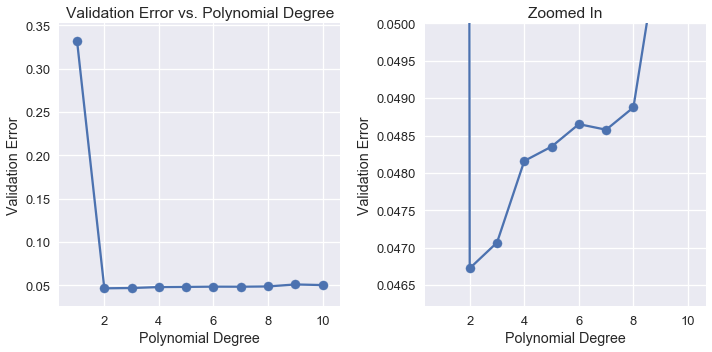
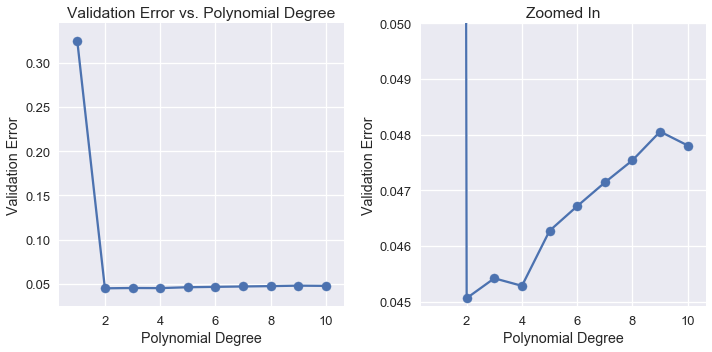
more fixes

diff --git a/notebooks-html/bias_cv.html b/notebooks-html/bias_cv.html
@@ -105,7 +105,7 @@
 <p><img src="https://raw.githubusercontent.com/DS-100/textbook/master/assets/feature_train_test_error.png" alt="feature_train_test_error.png"></p></div></div></div>
 <div class="cell border-box-sizing text_cell rendered"><div class="inner_cell">
 <div class="text_cell_render border-box-sizing rendered_html">
-<h2 id="K-Fold-Cross-Validation">K-Fold Cross-Validation<a class="anchor-link" href="#K-Fold-Cross-Validation">&#182;</a></h2><p>In Chapter 14.3, we mentioned the method of the <strong>train-validation split</strong> method to simulate test error through the validation set. However, with this method the validation error may be prone to high variance because the evaluation of the error may depend heavily on which points end up in the training and validation sets.</p>
+<h2 id="K-Fold-Cross-Validation">K-Fold Cross-Validation<a class="anchor-link" href="#K-Fold-Cross-Validation">&#182;</a></h2><p>The <strong>train-validation split</strong> method is a good method to simulate test error through the validation set. However, with this method the validation error may be prone to high variance because the evaluation of the error may depend heavily on which points end up in the training and validation sets.</p>
 <p>To tackle this problem, we can run the train-validation split multiple times on the same dataset. The dataset is divided into <em>k</em> equally-sized subsets (<em>$k$ folds</em>), and the train-validation split is repeated <em>k</em> times. Each time, one of the <em>k</em> folds is used as the validation set, and the remaining <em>k-1</em> folds are used as the training set. We report the model's final validation error as the average of the $ k $ validation errors from each trial. This method is called <strong>k-fold cross-validation</strong>. The biggest advantage of this method is that every data point is used for validation exactly once and for training <em>k-1</em> times.</p>
 <p>The diagram below illustrates the technique when using five folds:</p>
 <p><img src="https://github.com/DS-100/textbook/blob/master/assets/feature_5_fold_cv.jpg?raw=true" alt="feature_5_fold_cv.jpg"></p></div></div></div>
@@ -135,10 +135,6 @@
 <span class="n">clf</span> <span class="o">=</span> <span class="n">LinearRegression</span><span class="p">(</span><span class="n">fit_intercept</span><span class="o">=</span><span class="kc">False</span><span class="p">)</span><span class="o">.</span><span class="n">fit</span><span class="p">(</span><span class="n">X</span><span class="p">,</span> <span class="n">ice</span><span class="p">[[</span><span class="s1">&#39;overall&#39;</span><span class="p">]])</span>
 <span class="n">xs</span> <span class="o">=</span> <span class="n">np</span><span class="o">.</span><span class="n">linspace</span><span class="p">(</span><span class="mf">3.5</span><span class="p">,</span> <span class="mf">12.5</span><span class="p">,</span> <span class="mi">300</span><span class="p">)</span><span class="o">.</span><span class="n">reshape</span><span class="p">(</span><span class="o">-</span><span class="mi">1</span><span class="p">,</span> <span class="mi">1</span><span class="p">)</span>
 <span class="n">rating_pred</span> <span class="o">=</span> <span class="n">clf</span><span class="o">.</span><span class="n">predict</span><span class="p">(</span><span class="n">transformer</span><span class="o">.</span><span class="n">transform</span><span class="p">(</span><span class="n">xs</span><span class="p">))</span>
-
-<span class="c1">#ice.plot.scatter(&#39;sweetness&#39;, &#39;overall&#39;)</span>
-<span class="c1">#plt.plot(xs, rating_pred)</span>
-<span class="c1">#plt.title(&#39;Degree 2 polynomial fit&#39;);</span>
 
 <span class="n">temp</span> <span class="o">=</span> <span class="n">pd</span><span class="o">.</span><span class="n">DataFrame</span><span class="p">(</span><span class="n">xs</span><span class="p">,</span> <span class="n">columns</span> <span class="o">=</span> <span class="p">[</span><span class="s1">&#39;sweetness&#39;</span><span class="p">])</span>
 <span class="n">temp</span><span class="p">[</span><span class="s1">&#39;overall&#39;</span><span class="p">]</span> <span class="o">=</span> <span class="n">rating_pred</span>
@@ -261,7 +257,7 @@
 ></div></div></div></div></div>
 <div class="cell border-box-sizing text_cell rendered"><div class="inner_cell">
 <div class="text_cell_render border-box-sizing rendered_html">
-<p>Using degree 10 polynomial features on the dataset below results in a perfectly accurate model for the 10 datapoints. Unfortunately, this model fails to generalize to previously-unseen data from the population.</p></div></div></div>
+<p>Using degree 10 polynomial features on 9 random points from the dataset result in a perfectly accurate model for those data points. Unfortunately, this model fails to generalize to previously unseen data from the population.</p></div></div></div>
 <div class="cell border-box-sizing code_cell rendered">
 <div class="input">
 
@@ -340,7 +336,7 @@
 <span class="n">test_size</span> <span class="o">=</span> <span class="mi">92</span>
 
 <span class="n">X_train</span><span class="p">,</span> <span class="n">X_test</span><span class="p">,</span> <span class="n">y_train</span><span class="p">,</span> <span class="n">y_test</span> <span class="o">=</span> <span class="n">train_test_split</span><span class="p">(</span>
-    <span class="n">ice</span><span class="p">[[</span><span class="s1">&#39;sweetness&#39;</span><span class="p">]],</span> <span class="n">ice</span><span class="p">[</span><span class="s1">&#39;overall&#39;</span><span class="p">],</span> <span class="n">test_size</span><span class="o">=</span><span class="n">test_size</span><span class="p">)</span>
+    <span class="n">ice</span><span class="p">[[</span><span class="s1">&#39;sweetness&#39;</span><span class="p">]],</span> <span class="n">ice</span><span class="p">[</span><span class="s1">&#39;overall&#39;</span><span class="p">],</span> <span class="n">test_size</span><span class="o">=</span><span class="n">test_size</span><span class="p">,</span> <span class="n">random_state</span><span class="o">=</span><span class="mi">0</span><span class="p">)</span>
 
 
 <span class="nb">print</span><span class="p">(</span><span class="n">f</span><span class="s1">&#39;  Training set size: {len(X_train)}&#39;</span><span class="p">)</span>
@@ -393,13 +389,13 @@
 
 
 <div class="output_text output_subarea output_execute_result">
-<pre>array([[     1.  ,     11.46,    131.33,   1505.06,  17247.99, 197661.96],
-       [     1.  ,      8.  ,     64.  ,    512.  ,   4096.  ,  32768.  ],
-       [     1.  ,      4.71,     22.18,    104.49,    492.13,   2317.95],
+<pre>array([[     1.  ,      8.8 ,     77.44,    681.47,   5996.95,  52773.19],
+       [     1.  ,     10.74,    115.35,   1238.83,  13305.07, 142896.44],
+       [     1.  ,      9.98,     99.6 ,    994.01,   9920.24,  99003.99],
        ...,
-       [     1.  ,      6.88,     47.33,    325.66,   2240.55,  15414.95],
-       [     1.  ,      4.63,     21.44,     99.25,    459.54,   2127.67],
-       [     1.  ,      6.74,     45.43,    306.18,   2063.67,  13909.11]])</pre></div></div></div></div></div>
+       [     1.  ,      6.79,     46.1 ,    313.05,   2125.59,  14432.74],
+       [     1.  ,      5.13,     26.32,    135.01,    692.58,   3552.93],
+       [     1.  ,      8.66,     75.  ,    649.46,   5624.34,  48706.78]])</pre></div></div></div></div></div>
 <div class="cell border-box-sizing text_cell rendered"><div class="inner_cell">
 <div class="text_cell_render border-box-sizing rendered_html">
 <p>We will then perform 5-fold cross-validation on the 10 featurized datasets. To do so, we will define a function that:</p>
@@ -509,43 +505,43 @@
   <tbody>
     <tr>
       <th>1</th>
-      <td>0.332086</td>
+      <td>0.324820</td>
     </tr>
     <tr>
       <th>2</th>
-      <td>0.046725</td>
+      <td>0.045060</td>
     </tr>
     <tr>
       <th>3</th>
-      <td>0.047069</td>
+      <td>0.045418</td>
     </tr>
     <tr>
       <th>4</th>
-      <td>0.048161</td>
+      <td>0.045282</td>
     </tr>
     <tr>
       <th>5</th>
-      <td>0.048352</td>
+      <td>0.046272</td>
     </tr>
     <tr>
       <th>6</th>
-      <td>0.048653</td>
+      <td>0.046715</td>
     </tr>
     <tr>
       <th>7</th>
-      <td>0.048578</td>
+      <td>0.047140</td>
     </tr>
     <tr>
       <th>8</th>
-      <td>0.048877</td>
+      <td>0.047540</td>
     </tr>
     <tr>
       <th>9</th>
-      <td>0.051174</td>
+      <td>0.048055</td>
     </tr>
     <tr>
       <th>10</th>
-      <td>0.050455</td>
+      <td>0.047805</td>
     </tr>
   </tbody>
 </table></div></div></div></div></div></div>
@@ -572,7 +568,7 @@
 <span class="n">plt</span><span class="o">.</span><span class="n">subplot</span><span class="p">(</span><span class="mi">122</span><span class="p">)</span>
 <span class="n">plt</span><span class="o">.</span><span class="n">plot</span><span class="p">(</span><span class="n">cv_df</span><span class="o">.</span><span class="n">index</span><span class="p">,</span> <span class="n">cv_df</span><span class="p">[</span><span class="s1">&#39;Validation Error&#39;</span><span class="p">])</span>
 <span class="n">plt</span><span class="o">.</span><span class="n">scatter</span><span class="p">(</span><span class="n">cv_df</span><span class="o">.</span><span class="n">index</span><span class="p">,</span> <span class="n">cv_df</span><span class="p">[</span><span class="s1">&#39;Validation Error&#39;</span><span class="p">])</span>
-<span class="n">plt</span><span class="o">.</span><span class="n">ylim</span><span class="p">(</span><span class="mf">0.046225</span><span class="p">,</span> <span class="mf">0.05</span><span class="p">)</span>
+<span class="n">plt</span><span class="o">.</span><span class="n">ylim</span><span class="p">(</span><span class="mf">0.044925</span><span class="p">,</span> <span class="mf">0.05</span><span class="p">)</span>
 <span class="n">plt</span><span class="o">.</span><span class="n">title</span><span class="p">(</span><span class="s1">&#39;Zoomed In&#39;</span><span class="p">)</span>
 <span class="n">plt</span><span class="o">.</span><span class="n">xlabel</span><span class="p">(</span><span class="s1">&#39;Polynomial Degree&#39;</span><span class="p">)</span>
 <span class="n">plt</span><span class="o">.</span><span class="n">ylabel</span><span class="p">(</span><span class="s1">&#39;Validation Error&#39;</span><span class="p">)</span>
@@ -625,24 +621,18 @@
 
 
 
-<div class="output_subarea output_text output_error">
-<pre>
-<span class="ansi-red-intense-fg ansi-bold">---------------------------------------------------------------------------</span>
-<span class="ansi-red-intense-fg ansi-bold">NameError</span>                                 Traceback (most recent call last)
-<span class="ansi-green-intense-fg ansi-bold">&lt;ipython-input-1-3c5419014a84&gt;</span> in <span class="ansi-cyan-fg">&lt;module&gt;</span><span class="ansi-blue-intense-fg ansi-bold">()</span>
-<span class="ansi-green-fg">      1</span> <span class="ansi-red-intense-fg ansi-bold"># HIDDEN</span>
-<span class="ansi-green-intense-fg ansi-bold">----&gt; 2</span><span class="ansi-yellow-intense-fg ansi-bold"> </span>best_trans <span class="ansi-yellow-intense-fg ansi-bold">=</span> transformers<span class="ansi-yellow-intense-fg ansi-bold">[</span><span class="ansi-cyan-intense-fg ansi-bold">1</span><span class="ansi-yellow-intense-fg ansi-bold">]</span>
-<span class="ansi-green-fg">      3</span> best_model <span class="ansi-yellow-intense-fg ansi-bold">=</span> LinearRegression<span class="ansi-yellow-intense-fg ansi-bold">(</span>fit_intercept<span class="ansi-yellow-intense-fg ansi-bold">=</span><span class="ansi-green-intense-fg ansi-bold">False</span><span class="ansi-yellow-intense-fg ansi-bold">)</span><span class="ansi-yellow-intense-fg ansi-bold">.</span>fit<span class="ansi-yellow-intense-fg ansi-bold">(</span>X_train_polys<span class="ansi-yellow-intense-fg ansi-bold">[</span><span class="ansi-cyan-intense-fg ansi-bold">1</span><span class="ansi-yellow-intense-fg ansi-bold">]</span><span class="ansi-yellow-intense-fg ansi-bold">,</span> y_train<span class="ansi-yellow-intense-fg ansi-bold">)</span>
-<span class="ansi-green-fg">      4</span> 
-<span class="ansi-green-fg">      5</span> training_error <span class="ansi-yellow-intense-fg ansi-bold">=</span> mse_cost<span class="ansi-yellow-intense-fg ansi-bold">(</span>best_model<span class="ansi-yellow-intense-fg ansi-bold">.</span>predict<span class="ansi-yellow-intense-fg ansi-bold">(</span>X_train_polys<span class="ansi-yellow-intense-fg ansi-bold">[</span><span class="ansi-cyan-intense-fg ansi-bold">1</span><span class="ansi-yellow-intense-fg ansi-bold">]</span><span class="ansi-yellow-intense-fg ansi-bold">)</span><span class="ansi-yellow-intense-fg ansi-bold">,</span> y_train<span class="ansi-yellow-intense-fg ansi-bold">)</span>
-
-<span class="ansi-red-intense-fg ansi-bold">NameError</span>: name &#39;transformers&#39; is not defined</pre></div></div></div></div></div>
+<div class="output_subarea output_stream output_stdout output_text">
+<pre>Degree 2 polynomial
+  Training error: 0.04409
+Validation error: 0.04506
+      Test error: 0.04698
+</pre></div></div></div></div></div>
 <div class="cell border-box-sizing text_cell rendered"><div class="inner_cell">
 <div class="text_cell_render border-box-sizing rendered_html">
 <p>For future reference, <code>scikit-learn</code> has a <a href="http://scikit-learn.org/stable/modules/generated/sklearn.model_selection.cross_val_predict.html"><code>cross_val_predict</code></a> to automatically perform cross-validation, so we don't have to break the data into training and validation sets yourself.</p></div></div></div>
 <div class="cell border-box-sizing text_cell rendered"><div class="inner_cell">
 <div class="text_cell_render border-box-sizing rendered_html">
-<p>Also, note that the test error is higher than the validation error which is higher than the training error.</p></div></div></div>
+<p>Also, note that the test error is higher than the validation error which is higher than the training error. The training error should be the lowest because the model is fit on the training data. Fitting the model minimizes the mean squared error for that dataset. The validation error and the test error are usually higher than the training error because the error is computed on an unknown dataset that the model hasn't seen.</p></div></div></div>
 <div class="cell border-box-sizing text_cell rendered"><div class="inner_cell">
 <div class="text_cell_render border-box-sizing rendered_html">
 <h2 id="Summary">Summary<a class="anchor-link" href="#Summary">&#182;</a></h2><p>We use the widely useful cross-validation technique to manage the bias-variance tradeoff. After computing a train-validation-test split on the original dataset, we use the following procedure to train and choose a model.</p>

diff --git a/notebooks/ch15/bias_cv.md b/notebooks/ch15/bias_cv.md
@@ -76,7 +76,7 @@ In general, the training error decreases as we add complexity to our model with 
 
 ## K-Fold Cross-Validation
 
-In Chapter 14.3, we mentioned the method of the **train-validation split** method to simulate test error through the validation set. However, with this method the validation error may be prone to high variance because the evaluation of the error may depend heavily on which points end up in the training and validation sets.
+The **train-validation split** method is a good method to simulate test error through the validation set. However, with this method the validation error may be prone to high variance because the evaluation of the error may depend heavily on which points end up in the training and validation sets.
 
 To tackle this problem, we can run the train-validation split multiple times on the same dataset. The dataset is divided into *k* equally-sized subsets (*$k$ folds*), and the train-validation split is repeated *k* times. Each time, one of the *k* folds is used as the validation set, and the remaining *k-1* folds are used as the training set. We report the model's final validation error as the average of the $ k $ validation errors from each trial. This method is called **k-fold cross-validation**. The biggest advantage of this method is that every data point is used for validation exactly once and for training *k-1* times.
 
@@ -109,10 +109,6 @@ X = transformer.fit_transform(ice[['sweetness']])
 clf = LinearRegression(fit_intercept=False).fit(X, ice[['overall']])
 xs = np.linspace(3.5, 12.5, 300).reshape(-1, 1)
 rating_pred = clf.predict(transformer.transform(xs))
-
-#ice.plot.scatter('sweetness', 'overall')
-#plt.plot(xs, rating_pred)
-#plt.title('Degree 2 polynomial fit');
 
 temp = pd.DataFrame(xs, columns = ['sweetness'])
 temp['overall'] = rating_pred
@@ -212,7 +208,7 @@ plt.ylabel('Rating');
 ![png](bias_cv_files/bias_cv_12_0.png)
 
 
-Using degree 10 polynomial features on the dataset below results in a perfectly accurate model for the 10 datapoints. Unfortunately, this model fails to generalize to previously-unseen data from the population.
+Using degree 10 polynomial features on 9 random points from the dataset result in a perfectly accurate model for those data points. Unfortunately, this model fails to generalize to previously unseen data from the population.
 
 
 ```python
@@ -268,7 +264,7 @@ from sklearn.model_selection import train_test_split
 test_size = 92
 
 X_train, X_test, y_train, y_test = train_test_split(
-    ice[['sweetness']], ice['overall'], test_size=test_size)
+    ice[['sweetness']], ice['overall'], test_size=test_size, random_state=0)
 
 
 print(f'  Training set size: {len(X_train)}')
@@ -299,13 +295,13 @@ X_train_polys[4]
 
 
 
-    array([[     1.  ,     11.46,    131.33,   1505.06,  17247.99, 197661.96],
-           [     1.  ,      8.  ,     64.  ,    512.  ,   4096.  ,  32768.  ],
-           [     1.  ,      4.71,     22.18,    104.49,    492.13,   2317.95],
+    array([[     1.  ,      8.8 ,     77.44,    681.47,   5996.95,  52773.19],
+           [     1.  ,     10.74,    115.35,   1238.83,  13305.07, 142896.44],
+           [     1.  ,      9.98,     99.6 ,    994.01,   9920.24,  99003.99],
            ...,
-           [     1.  ,      6.88,     47.33,    325.66,   2240.55,  15414.95],
-           [     1.  ,      4.63,     21.44,     99.25,    459.54,   2127.67],
-           [     1.  ,      6.74,     45.43,    306.18,   2063.67,  13909.11]])
+           [     1.  ,      6.79,     46.1 ,    313.05,   2125.59,  14432.74],
+           [     1.  ,      5.13,     26.32,    135.01,    692.58,   3552.93],
+           [     1.  ,      8.66,     75.  ,    649.46,   5624.34,  48706.78]])
 
 
 
@@ -393,43 +389,43 @@ pd.options.display.max_rows = 7
   <tbody>
     <tr>
       <th>1</th>
-      <td>0.332086</td>
+      <td>0.324820</td>
     </tr>
     <tr>
       <th>2</th>
-      <td>0.046725</td>
+      <td>0.045060</td>
     </tr>
     <tr>
       <th>3</th>
-      <td>0.047069</td>
+      <td>0.045418</td>
     </tr>
     <tr>
       <th>4</th>
-      <td>0.048161</td>
+      <td>0.045282</td>
     </tr>
     <tr>
       <th>5</th>
-      <td>0.048352</td>
+      <td>0.046272</td>
     </tr>
     <tr>
       <th>6</th>
-      <td>0.048653</td>
+      <td>0.046715</td>
     </tr>
     <tr>
       <th>7</th>
-      <td>0.048578</td>
+      <td>0.047140</td>
     </tr>
     <tr>
       <th>8</th>
-      <td>0.048877</td>
+      <td>0.047540</td>
     </tr>
     <tr>
       <th>9</th>
-      <td>0.051174</td>
+      <td>0.048055</td>
     </tr>
     <tr>
       <th>10</th>
-      <td>0.050455</td>
+      <td>0.047805</td>
     </tr>
   </tbody>
 </table>
@@ -453,7 +449,7 @@ plt.ylabel('Validation Error');
 plt.subplot(122)
 plt.plot(cv_df.index, cv_df['Validation Error'])
 plt.scatter(cv_df.index, cv_df['Validation Error'])
-plt.ylim(0.046225, 0.05)
+plt.ylim(0.044925, 0.05)
 plt.title('Zoomed In')
 plt.xlabel('Polynomial Degree')
 plt.ylabel('Validation Error')
@@ -483,25 +479,15 @@ print(f'Validation error: {validation_error:0.5f}')
 print(f'      Test error: {test_error:0.5f}')
 ```
 
-
-    ---------------------------------------------------------------------------
-
-    NameError                                 Traceback (most recent call last)
-
-    <ipython-input-1-3c5419014a84> in <module>()
-          1 # HIDDEN
-    ----> 2 best_trans = transformers[1]
-          3 best_model = LinearRegression(fit_intercept=False).fit(X_train_polys[1], y_train)
-          4 
-          5 training_error = mse_cost(best_model.predict(X_train_polys[1]), y_train)
+    Degree 2 polynomial
+      Training error: 0.04409
+    Validation error: 0.04506
+          Test error: 0.04698
     
-
-    NameError: name 'transformers' is not defined
-
 
 For future reference, `scikit-learn` has a [`cross_val_predict`](http://scikit-learn.org/stable/modules/generated/sklearn.model_selection.cross_val_predict.html) to automatically perform cross-validation, so we don't have to break the data into training and validation sets yourself. 
 
-Also, note that the test error is higher than the validation error which is higher than the training error. 
+Also, note that the test error is higher than the validation error which is higher than the training error. The training error should be the lowest because the model is fit on the training data. Fitting the model minimizes the mean squared error for that dataset. The validation error and the test error are usually higher than the training error because the error is computed on an unknown dataset that the model hasn't seen.
 
 ## Summary
 
